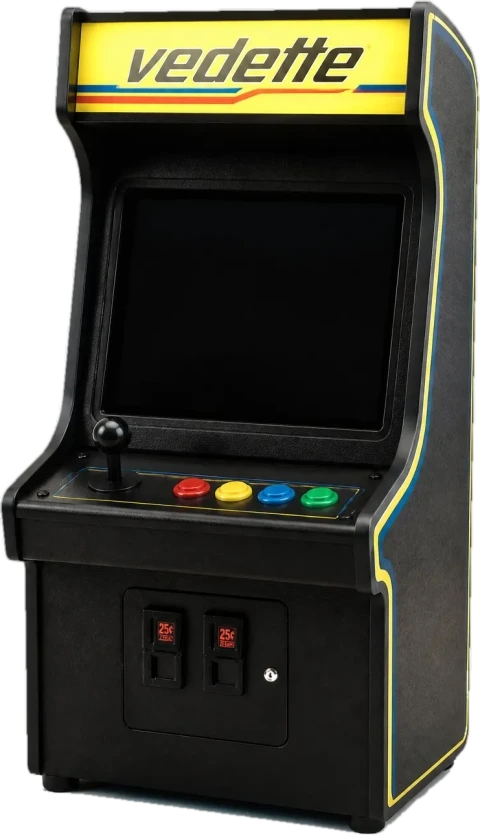
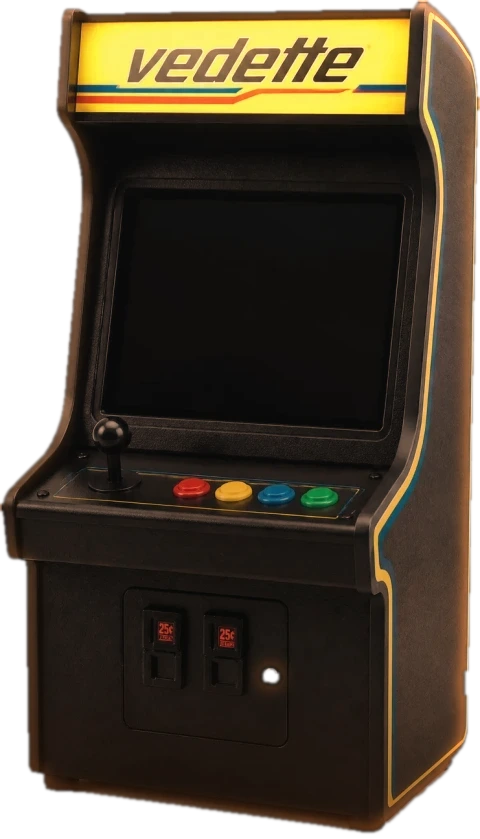
Mur : borne d'arcade mieux intégrée (étalonnage chaud, lumière des étagères, ombre et reflet au sol, bords nettoyés)
Claude-Session: https://claude.ai/code/session_01JHKczBwFKYFofkfxCnLE6j

diff --git a/src/app/globals.css b/src/app/globals.css
@@ -2320,15 +2320,28 @@ body {
   top: 0;
   transform-origin: 0 0;
 }
-.arcade-stage img { display: block; width: 100%; height: 100%; user-select: none; }
+.arcade-stage > img:not(.arcade-reflection) { display: block; width: 100%; height: 100%; user-select: none; }
 .arcade-shadow {
   position: absolute;
-  left: -8%;
-  right: -8%;
-  bottom: -3%;
-  height: 6%;
-  background: radial-gradient(ellipse at center, rgba(0, 0, 0, 0.55), rgba(0, 0, 0, 0) 70%);
-  filter: blur(3px);
+  left: -14%;
+  right: -22%;
+  bottom: -4.5%;
+  height: 9%;
+  background: radial-gradient(ellipse at 45% 50%, rgba(8, 3, 0, 0.78), rgba(8, 3, 0, 0.35) 45%, rgba(8, 3, 0, 0) 72%);
+  filter: blur(4px);
+}
+/* Reflet doux sur le sol poli : la borne retournée, très fondue. */
+.arcade-reflection {
+  position: absolute;
+  left: 0;
+  top: 99%;
+  width: 100%;
+  transform: scaleY(-1);
+  opacity: 0.22;
+  filter: blur(1.5px) saturate(0.8);
+  -webkit-mask-image: linear-gradient(to bottom, #000 0%, rgba(0, 0, 0, 0) 22%);
+  mask-image: linear-gradient(to bottom, #000 0%, rgba(0, 0, 0, 0) 22%);
+  pointer-events: none;
 }
 .arcade-screen {
   position: absolute;

diff --git a/src/components/collection/ArcadeCabinet.tsx b/src/components/collection/ArcadeCabinet.tsx
@@ -145,9 +145,11 @@ export default function ArcadeCabinet({
       aria-hidden="true"
     >
       <div className="arcade-shadow" />
+      {/* eslint-disable-next-line @next/next/no-img-element */}
+      <img className="arcade-reflection" src="/collection/arcade.webp?v=4" alt="" draggable={false} />
       <div ref={stageRef} className="arcade-stage" style={{ width: DW, height: DH }}>
         {/* eslint-disable-next-line @next/next/no-img-element */}
-        <img src="/collection/arcade.webp?v=3" alt="" width={DW} height={DH} draggable={false} />
+        <img src="/collection/arcade.webp?v=4" alt="" width={DW} height={DH} draggable={false} />
         <div
           className="arcade-marquee"
           style={{

diff --git a/src/components/collection/CollectionRoom.tsx b/src/components/collection/CollectionRoom.tsx
@@ -316,7 +316,7 @@ export default function CollectionRoom({ compact }: { compact: boolean }) {
           )}
 
           {/* Mini arcade cabinet at the foot of the wall, left of the shelves. */}
-          <ArcadeCabinet left={6.6} top={67} width={10.6} dimmed={inspecting} />
+          <ArcadeCabinet left={6.6} top={67.8} width={10.6} dimmed={inspecting} />
 
           <div ref={hotspotLayerRef} className="shop-hotspot-layer">
             {collection.map((item) => {
